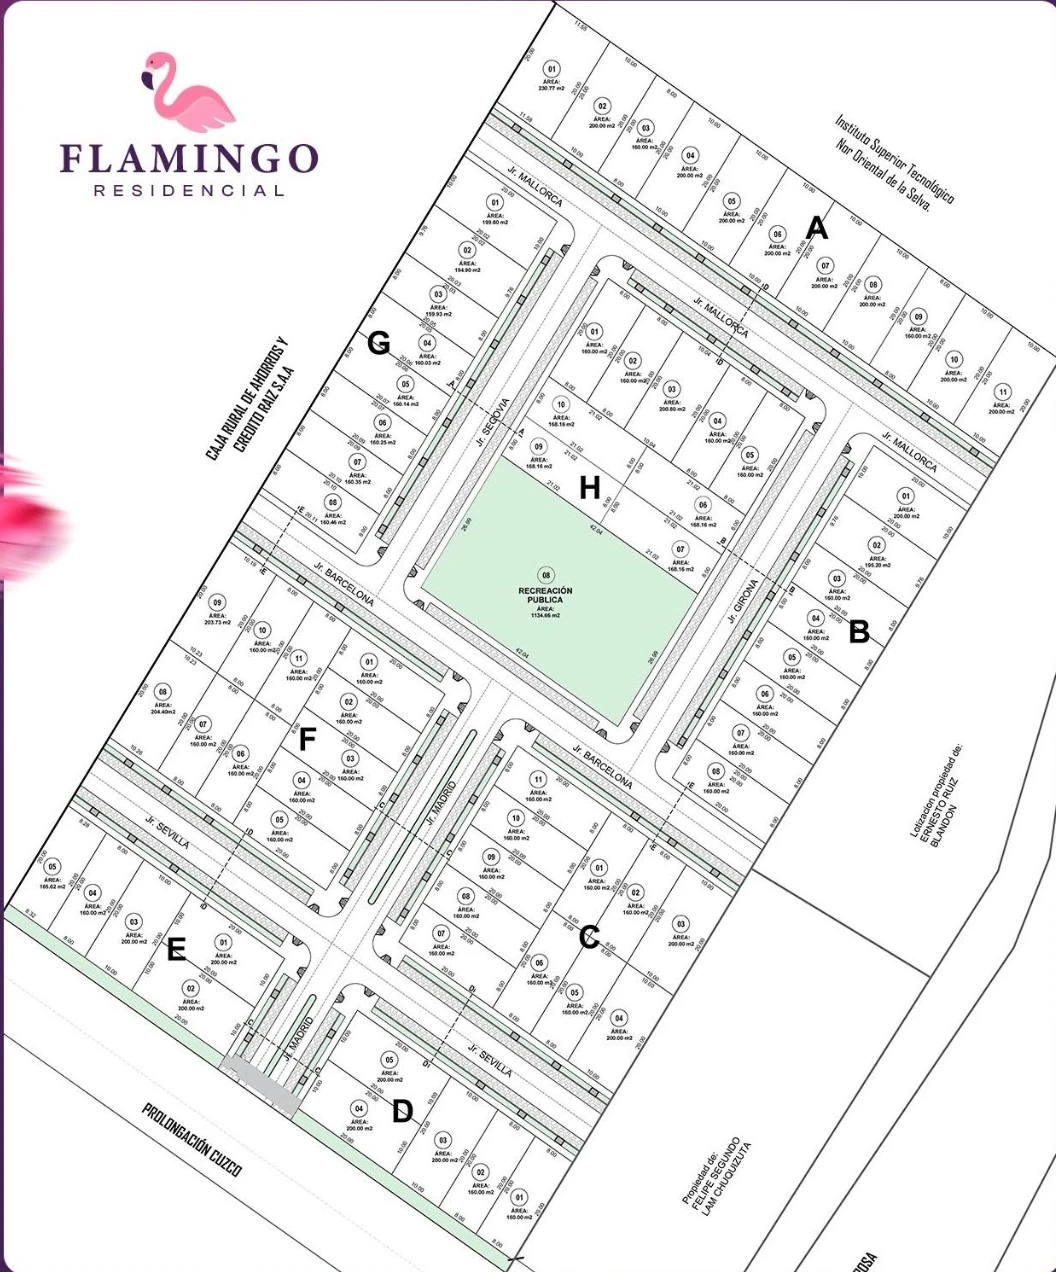
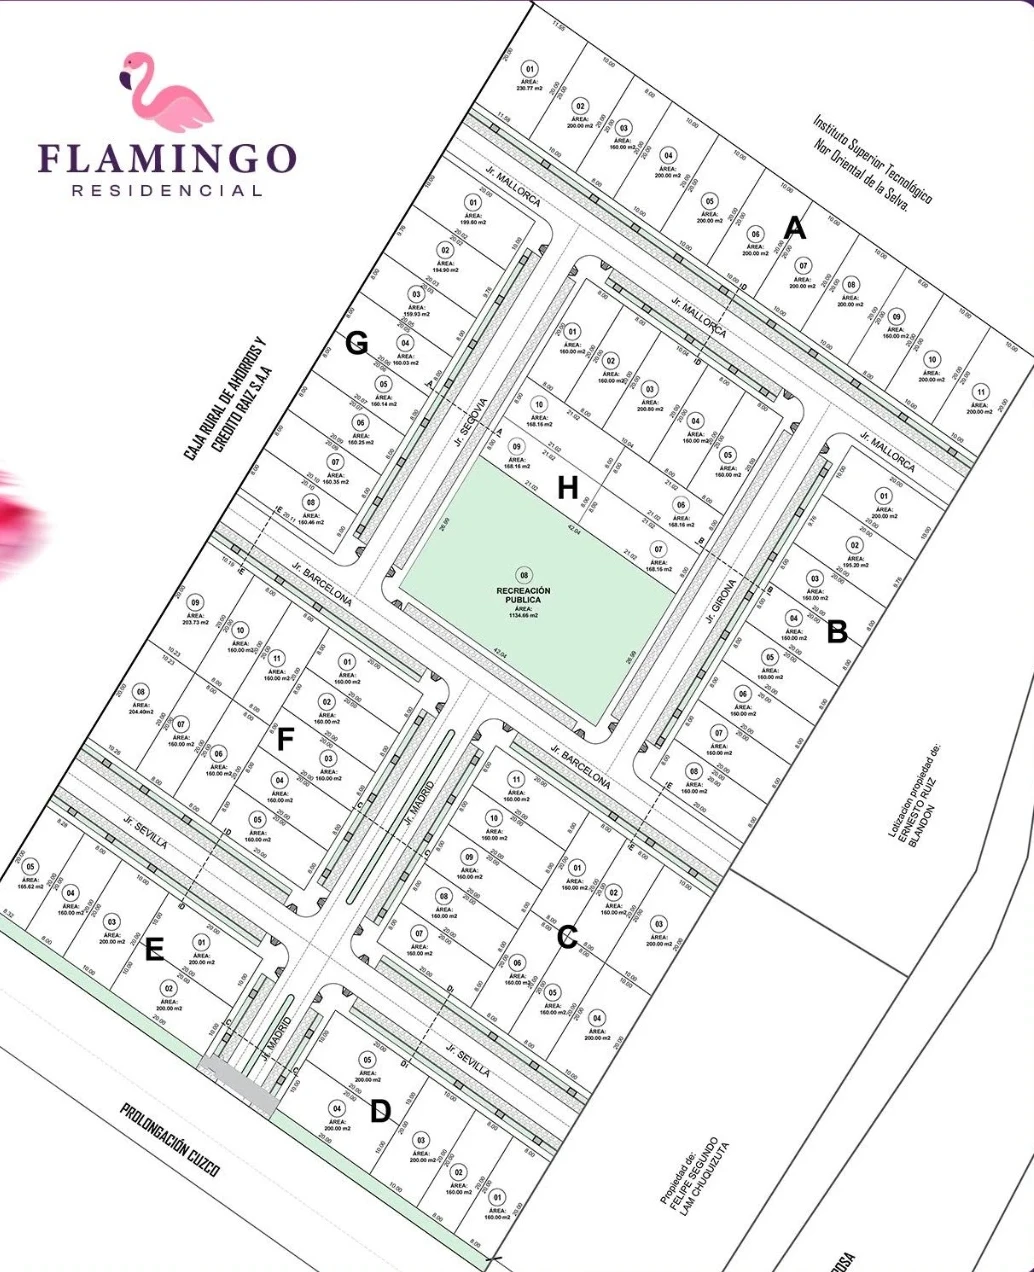
Fix Flamingo 360 viewer and showroom navigation

diff --git a/src/components/ShowroomApp.tsx b/src/components/ShowroomApp.tsx
@@ -1,7 +1,6 @@
 import React, { useCallback, useEffect, useMemo, useRef, useState } from 'react';
 import {
   ArrowLeft,
-  Box,
   Camera,
   ChevronDown,
   ChevronLeft,
@@ -13,15 +12,12 @@ import {
   LayoutGrid,
   ListFilter,
   Lock,
-  Map as MapIcon,
   MapPin,
-  Moon,
+  Map as MapIcon,
   MoveHorizontal,
   Rotate3D,
   RotateCcw,
   Sliders,
-  Sun,
-  SunMoon,
   X,
 } from 'lucide-react';
 import {
@@ -493,13 +489,9 @@ export const ShowroomApp: React.FC = () => {
       <div className="hidden md:flex absolute top-5 left-1/2 -translate-x-1/2 z-40 items-center gap-1 p-1.5 rounded-full bg-neutral-950/80 backdrop-blur-xl border border-white/15 shadow-2xl" style={step === 'intro' ? { display: 'none' } : undefined}>
         {(
           [
-            { id: 'intro', label: '1. Pórtico', icon: Compass },
-            { id: 'sides', label: '2. Giro 360°', icon: Rotate3D },
-            { id: 'phases', label: '3. Masterplan', icon: Layers },
-            { id: 'zones', label: '4. Zonas', icon: MapIcon },
-            { id: 'lots', label: '5. Lotes & Día/Noche', icon: LayoutGrid },
-            { id: 'models', label: '6. 4 Casas & 360°', icon: Box },
-            { id: 'location', label: '7. Mapa 3D', icon: MapPin },
+            { id: 'intro', label: '1. Apertura', icon: Compass },
+            { id: 'phases', label: '2. Plano A–H', icon: Layers },
+            { id: 'models', label: '3. Tour 360°', icon: Rotate3D },
           ] as const
         ).map((item) => {
           const Icon = item.icon;
@@ -524,33 +516,6 @@ export const ShowroomApp: React.FC = () => {
           );
         })}
 
-        <div className="h-4 w-px bg-white/15 mx-1" />
-
-        {/* Conmutador Día / Noche Global */}
-        <button
-          type="button"
-          onClick={() => setTimeOfDay((t) => (t === 'day' ? 'night' : 'day'))}
-          className={`px-3 py-1.5 rounded-full text-[11px] font-bold uppercase tracking-wider flex items-center gap-1.5 transition-all cursor-pointer ${
-            timeOfDay === 'night'
-              ? 'bg-indigo-600 text-white shadow'
-              : 'bg-white/10 text-amber-300 hover:bg-white/20'
-          }`}
-          title="Alternar iluminación Día / Noche"
-        >
-          {timeOfDay === 'day' ? <Sun size={13} /> : <Moon size={13} />}
-          <span>{timeOfDay === 'day' ? 'Día' : 'Noche'}</span>
-        </button>
-
-        {/* Botón Modo Calibrador */}
-        <button
-          type="button"
-          onClick={() => setCalibratorOpen(true)}
-          className="px-3 py-1.5 rounded-full bg-white/5 hover:bg-brand-primary text-white/75 hover:text-white text-[11px] font-bold uppercase tracking-wider flex items-center gap-1.5 transition-all cursor-pointer"
-          title="Abrir Editor de Calibración en Vivo (?calibrator=true)"
-        >
-          <Sliders size={12} />
-          <span>Calibrar</span>
-        </button>
       </div>
 
       <div className="absolute top-5 right-5 z-50">
@@ -693,17 +658,17 @@ export const ShowroomApp: React.FC = () => {
               <h1 className="mt-2 text-xl sm:text-2xl font-semibold tracking-wide">Plano oficial de lotización</h1>
               <p className="mt-1 text-xs text-white/70">Selecciona una manzana para explorar una vivienda conceptual.</p>
             </header>
-            <div className="relative w-[min(88vw,58vh)] max-h-[66vh] aspect-[1056/1272] rounded-2xl overflow-hidden shadow-2xl ring-1 ring-white/20">
+            <div className="relative w-[min(88vw,58vh)] max-h-[66vh] aspect-[1034/1272] rounded-2xl overflow-hidden shadow-2xl ring-1 ring-white/20">
               <img src="/urbanization/flamingo-lots-plan.webp" alt="Plano oficial de lotización de Residencial Flamingo" className="absolute inset-0 w-full h-full object-contain" />
               {[
-                { id: 'A', x: 77.4, y: 18.4 }, { id: 'B', x: 82, y: 49.4 },
-                { id: 'C', x: 55.4, y: 76.9 }, { id: 'D', x: 33.3, y: 85.2 },
-                { id: 'E', x: 15.9, y: 74.2 }, { id: 'F', x: 29.9, y: 59.3 },
-                { id: 'G', x: 35, y: 30 },
+                { id: 'A', x: 76.9, y: 18.4 }, { id: 'B', x: 81.6, y: 49.4 },
+                { id: 'C', x: 54.4, y: 76.9 }, { id: 'D', x: 31.9, y: 85.2 },
+                { id: 'E', x: 14.1, y: 74.2 }, { id: 'F', x: 28.4, y: 59.3 },
+                { id: 'G', x: 33.6, y: 30 },
               ].map((block) => (
                 <button key={block.id} type="button" aria-label={`Explorar manzana ${block.id}`} onClick={() => { setTourModel(HOUSE_MODELS[0]); navigateStep('models'); }} style={{ left: `${block.x}%`, top: `${block.y}%` }} className="absolute z-10 -translate-x-1/2 -translate-y-1/2 w-9 h-9 sm:w-11 sm:h-11 rounded-full border-2 border-white bg-[#76264f]/90 text-white font-bold shadow-[0_0_22px_rgba(236,72,153,.8)] hover:scale-125 transition-transform">{block.id}</button>
               ))}
-              <button type="button" aria-label="Explorar zona de recreación pública" onClick={() => { window.location.href = '/amenidades'; }} style={{ left: '53.2%', top: '38.8%' }} className="absolute z-10 -translate-x-1/2 -translate-y-1/2 px-2 py-1 rounded-lg bg-emerald-800/90 border border-white/80 text-white text-[9px] sm:text-[10px] font-bold uppercase shadow-lg">H · Recreación</button>
+              <button type="button" aria-label="Explorar zona de recreación pública" onClick={() => { window.location.href = '/amenidades'; }} style={{ left: '52.2%', top: '38.8%' }} className="absolute z-10 -translate-x-1/2 -translate-y-1/2 px-2 py-1 rounded-lg bg-emerald-800/90 border border-white/80 text-white text-[9px] sm:text-[10px] font-bold uppercase shadow-lg">H · Recreación</button>
             </div>
             <p className="mt-3 max-w-xl text-center text-[10px] leading-relaxed text-white/60">La visita 360° muestra ambientes referenciales generados con IA; la distribución y acabados finales deben confirmarse con la inmobiliaria.</p>
           </div>

diff --git a/src/data/flamingoData.ts b/src/data/flamingoData.ts
@@ -604,10 +604,10 @@ export interface FlamingoHouseModel {
 export const HOUSE_MODELS: FlamingoHouseModel[] = [
   {
     id: 'casa-1',
-    code: 'MÓDULO CORAL · CASA 01',
-    name: 'Modelo Coral',
-    tagline: 'Dos pisos · 85.40 m² techados · Diseño Bioclimático',
-    badge: 'Más Solicitado',
+    code: 'RECORRIDO CONCEPTUAL',
+    name: 'Casa conceptual Flamingo',
+    tagline: 'Distribución referencial · Detalles por confirmar',
+    badge: 'Visualización referencial',
     minLotAreaSqm: 64,
     builtAreaSqm: 85.4,
     floorsCount: 2,
@@ -632,35 +632,35 @@ export const HOUSE_MODELS: FlamingoHouseModel[] = [
     rooms360: [
       {
         id: 'sala',
-        label: 'Sala - Comedor Principal',
+        label: 'Sala - comedor',
         description: 'Iluminación natural cenital, pisos de porcelanato formato 120x60 y vista al jardín.',
         equirectangularUrl: '/models/casa-1/panorama/sala-360.webp',
         backdropPhotoUrl: '/models/casa-1/panorama/sala-360.webp',
         hotspots: [
-          { targetRoomId: 'cocina', label: 'Ir a Cocina Gourmet', yaw: 35, pitch: -4 },
-          { targetRoomId: 'dormitorio', label: 'Subir a Dormitorio Principal', yaw: -45, pitch: 8 },
+          { targetRoomId: 'cocina', label: 'Ir a la cocina', yaw: 35, pitch: -4 },
+          { targetRoomId: 'dormitorio', label: 'Ir al dormitorio', yaw: -45, pitch: 8 },
         ],
       },
       {
         id: 'cocina',
-        label: 'Cocina Gourmet & Isla',
+        label: 'Cocina',
         description: 'Tableros de piedra sinterizada, reposteros altos y bajos con cierre lento.',
         equirectangularUrl: '/models/casa-1/panorama/cocina-360.webp',
         backdropPhotoUrl: '/models/casa-1/panorama/cocina-360.webp',
         hotspots: [
-          { targetRoomId: 'sala', label: 'Volver a Sala - Comedor', yaw: -30, pitch: -2 },
-          { targetRoomId: 'dormitorio', label: 'Ir a Dormitorio Principal', yaw: 50, pitch: 10 },
+          { targetRoomId: 'sala', label: 'Volver a sala-comedor', yaw: -30, pitch: -2 },
+          { targetRoomId: 'dormitorio', label: 'Ir al dormitorio', yaw: 50, pitch: 10 },
         ],
       },
       {
         id: 'dormitorio',
-        label: 'Dormitorio Principal Suite',
+        label: 'Dormitorio',
         description: 'Suite en segundo nivel con balcón hacia la alameda y baño incorporado.',
         equirectangularUrl: '/models/casa-1/panorama/dormitorio-360.webp',
         backdropPhotoUrl: '/models/casa-1/panorama/dormitorio-360.webp',
         hotspots: [
-          { targetRoomId: 'sala', label: 'Bajar a Sala - Comedor', yaw: 15, pitch: -12 },
-          { targetRoomId: 'cocina', label: 'Ir a Cocina Gourmet', yaw: -40, pitch: -8 },
+          { targetRoomId: 'sala', label: 'Volver a sala-comedor', yaw: 15, pitch: -12 },
+          { targetRoomId: 'cocina', label: 'Ir a la cocina', yaw: -40, pitch: -8 },
         ],
       },
     ],

diff --git a/src/components/Panorama360Viewer.tsx b/src/components/Panorama360Viewer.tsx
@@ -79,7 +79,7 @@ export const Panorama360Viewer: React.FC<Panorama360ViewerProps> = ({ model, lot
       texture.mapping = THREE.EquirectangularReflectionMapping;
       const geometry = new THREE.SphereGeometry(500, 96, 64);
       geometry.scale(-1, 1, 1);
-      const material = new THREE.MeshBasicMaterial({ map: texture, side: THREE.BackSide });
+      const material = new THREE.MeshBasicMaterial({ map: texture });
       const sphere = new THREE.Mesh(geometry, material);
       if (sphereRef.current) {
         scene.remove(sphereRef.current);
